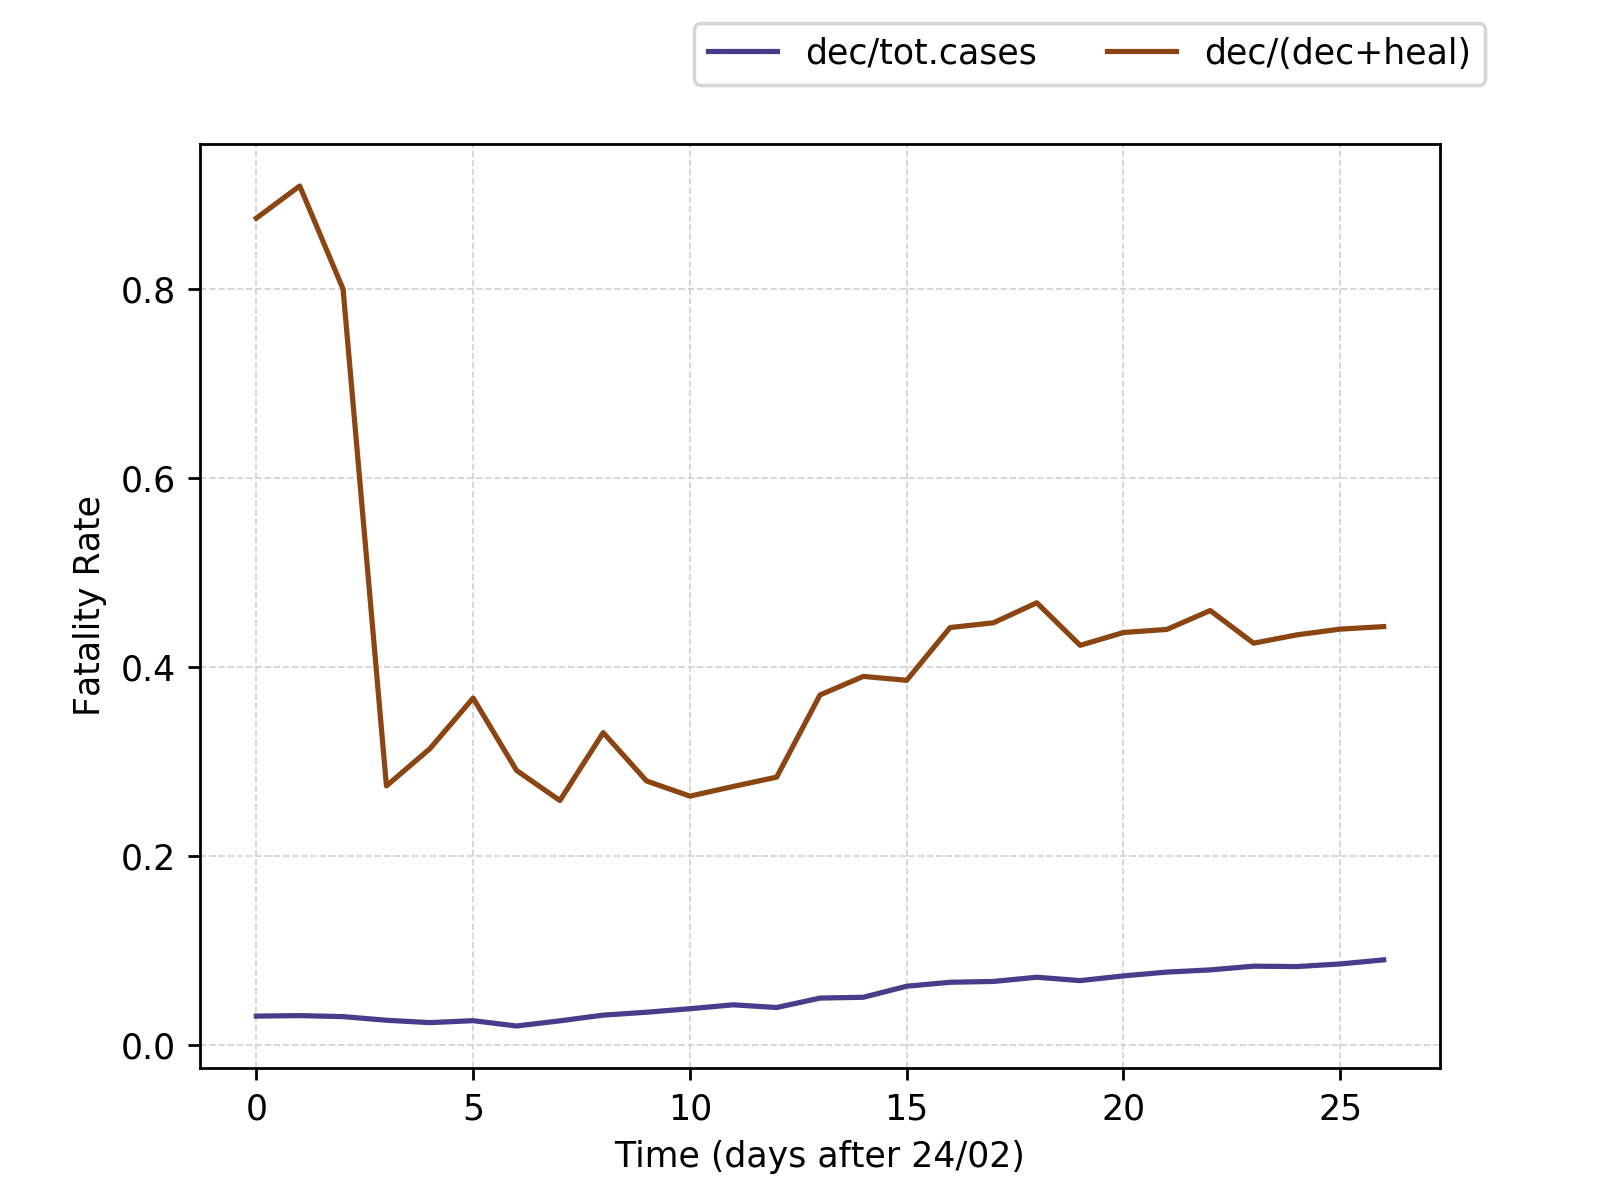
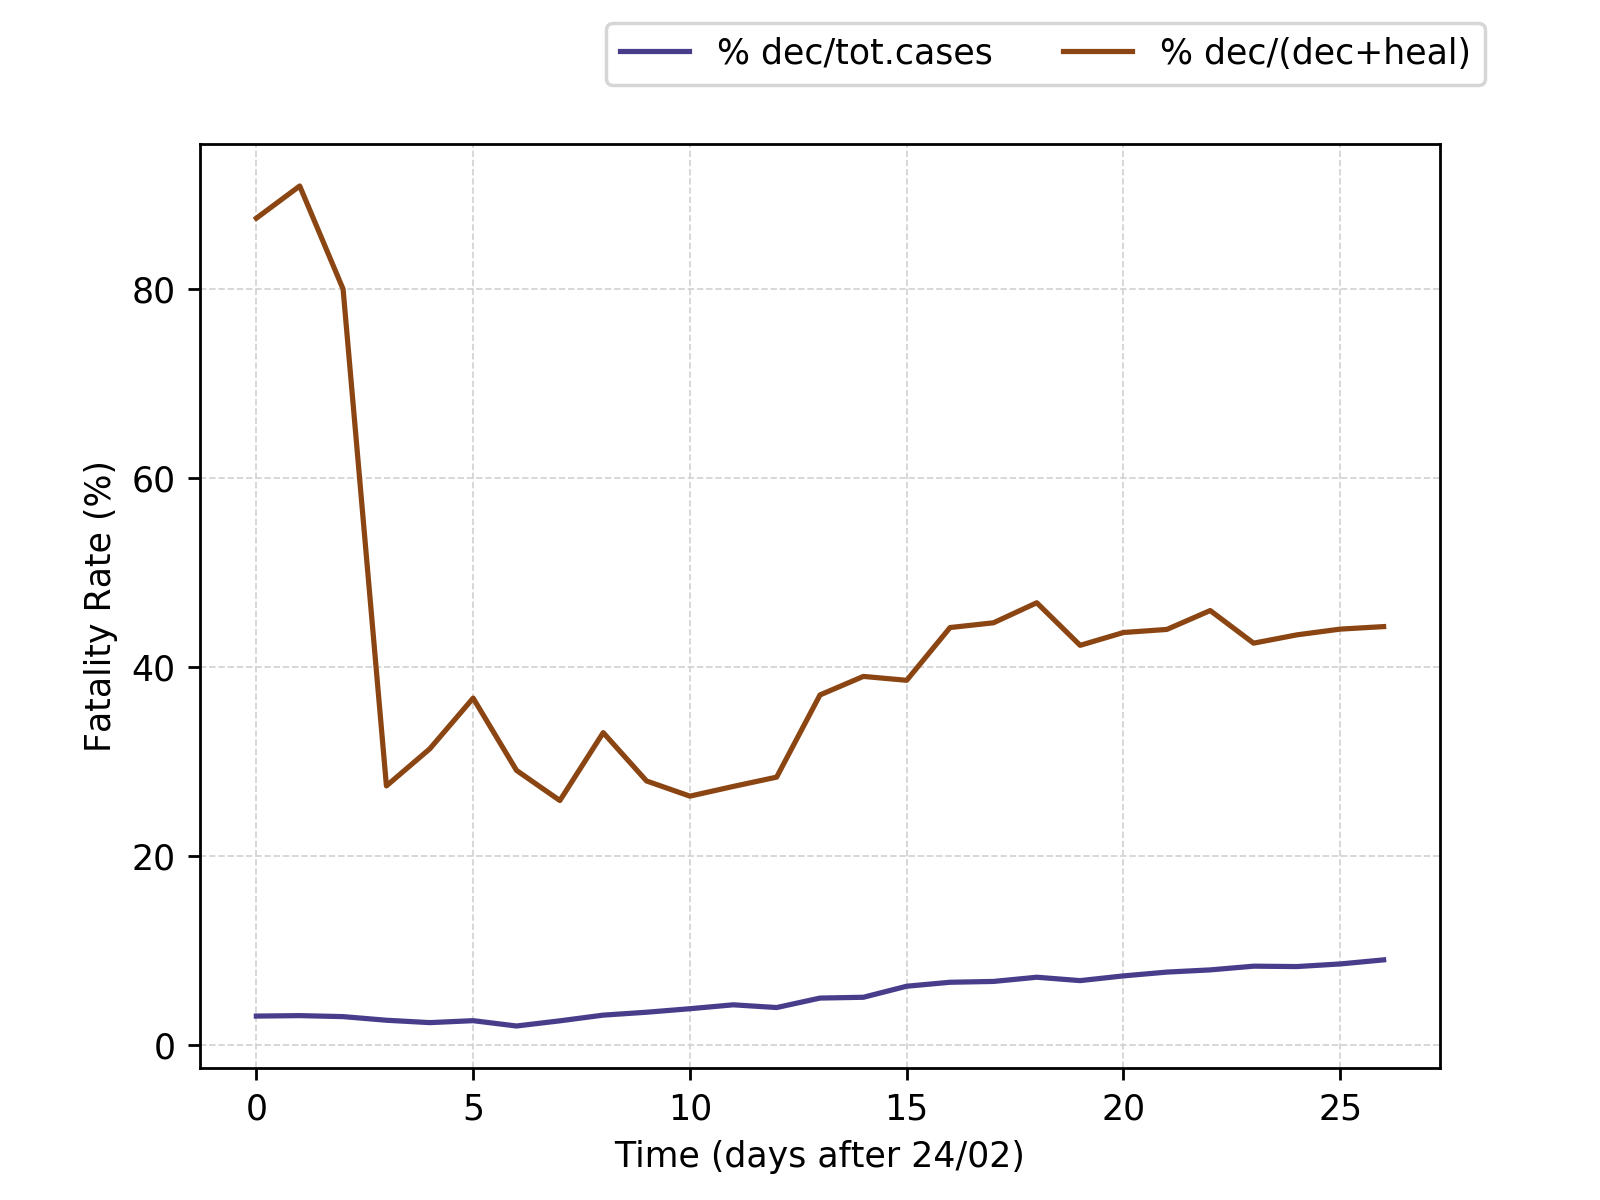
convert to %

diff --git a/national.py b/national.py
@@ -200,10 +200,10 @@ plt.clf()
 fatality_rate_1 = dataset['deceduti']/dataset['totale_casi']
 fatality_rate_2 = dataset['deceduti']/(dataset['deceduti'] + dataset['dimessi_guariti'])
 plt.xlabel('Time (days after 24/02)')
-plt.ylabel('Fatality Rate')
-plt.plot(days, fatality_rate_1, c='darkslateblue', linestyle='-')
-plt.plot(days, fatality_rate_2, c='saddlebrown', linestyle='-')
-plt.legend(('dec/tot.cases','dec/(dec+heal)'),loc='upper right', bbox_to_anchor=(1.05, 1.15), ncol=2)
+plt.ylabel('Fatality Rate (%)')
+plt.plot(days, fatality_rate_1*100, c='darkslateblue', linestyle='-')
+plt.plot(days, fatality_rate_2*100, c='saddlebrown', linestyle='-')
+plt.legend(('% dec/tot.cases','% dec/(dec+heal)'),loc='upper right', bbox_to_anchor=(1.05, 1.15), ncol=2)
 plt.grid(color='lightgray', linestyle='--', linewidth=0.5)
 plt.savefig('./curves/fatality-rate.png', dpi = 250)
 plt.clf()
@@ -261,7 +261,7 @@ print(growth_rate)
 
 # growth rate
 plt.xlabel('Time (days after 24/02)')
-plt.ylabel('Growth Rate %')
+plt.ylabel('Growth Rate (%)')
 plt.title('Growth Rate [(N(t+1)-N(t))/N(t)]x100')
 plt.plot(days[1:], growth_rate, 'bo')
 plt.plot(days[1:], growth_rate, color='cyan', linestyle='--')
